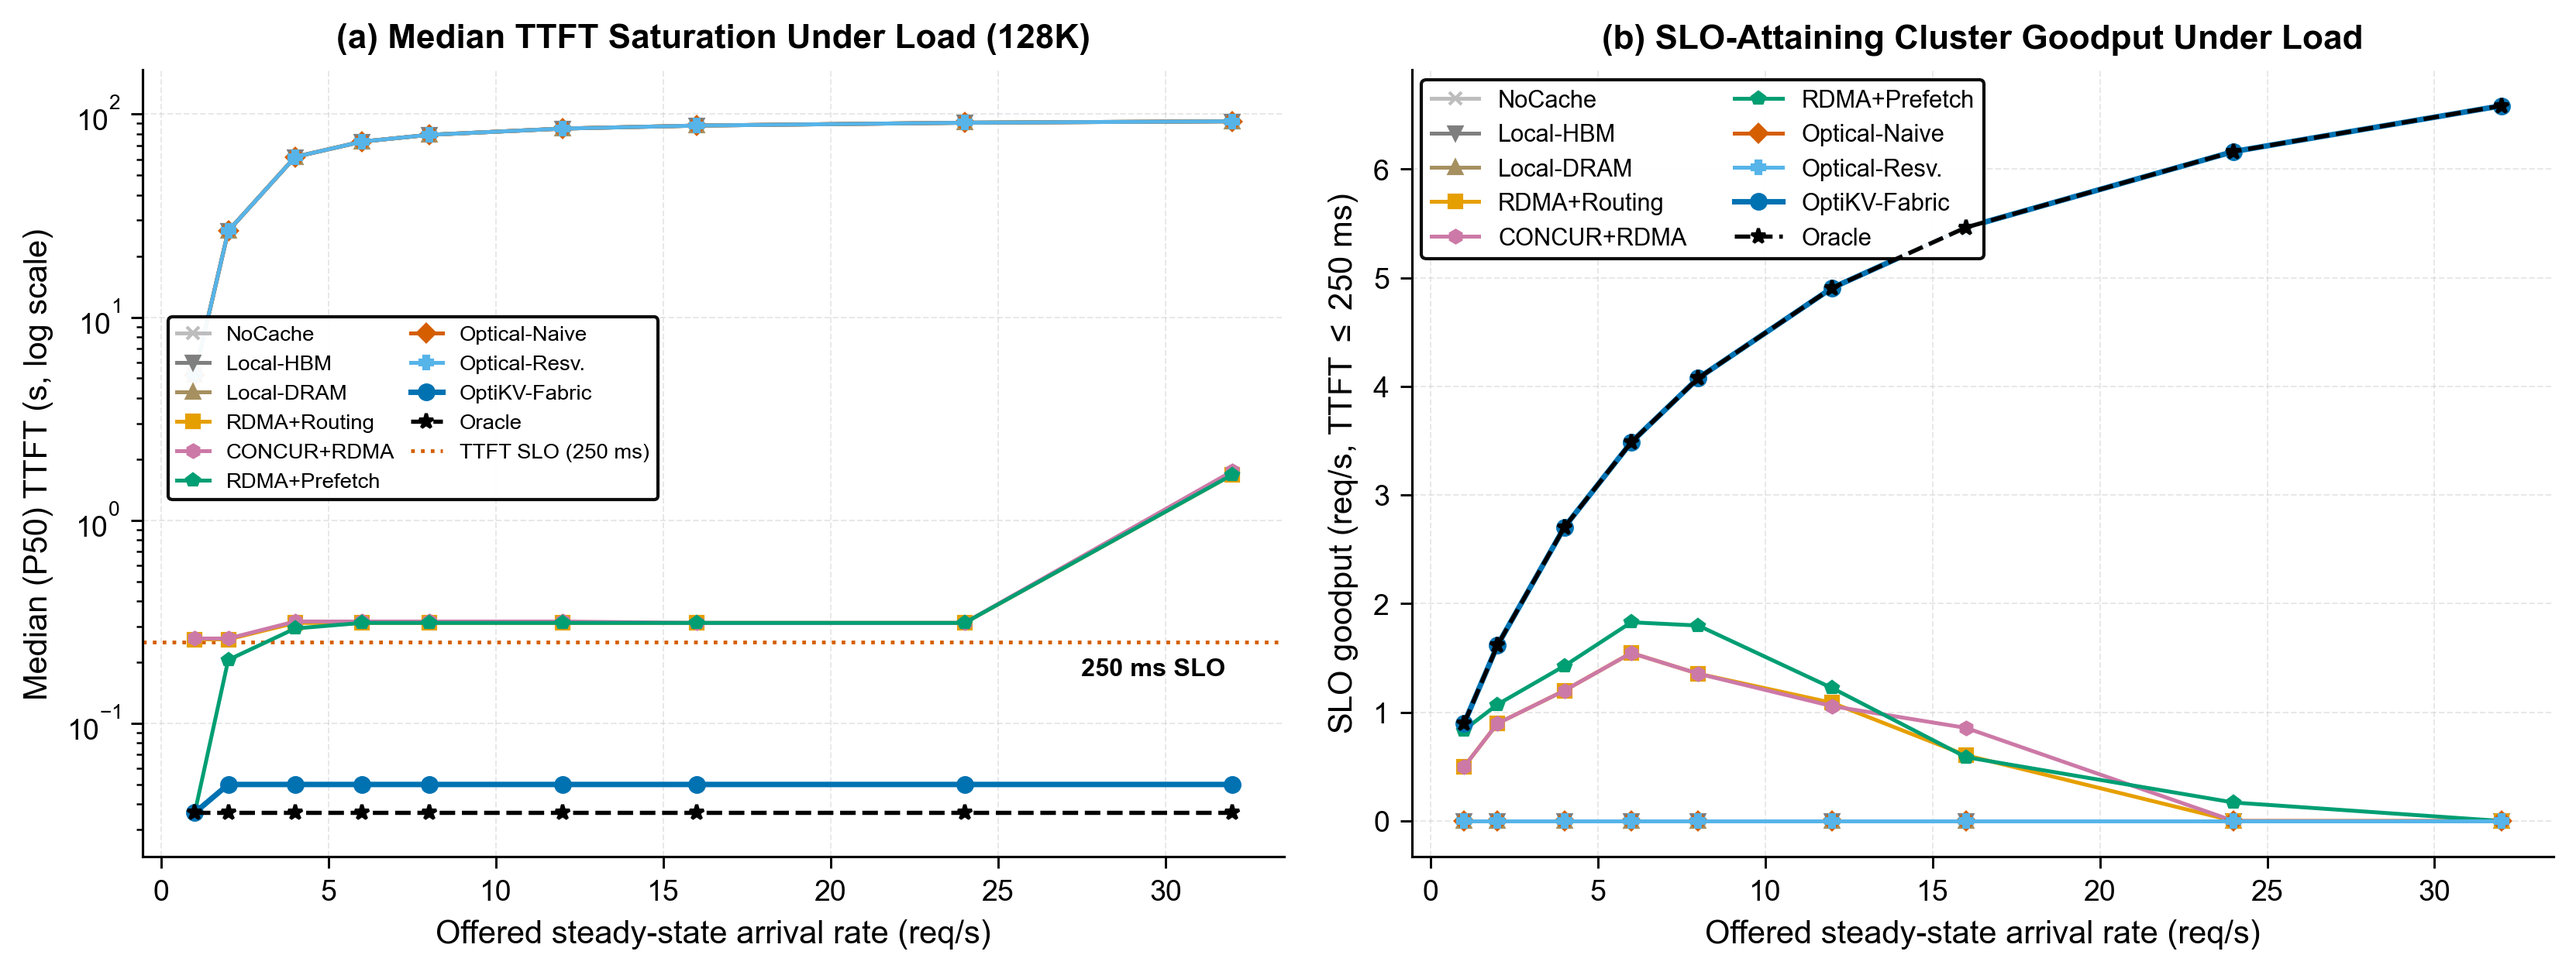
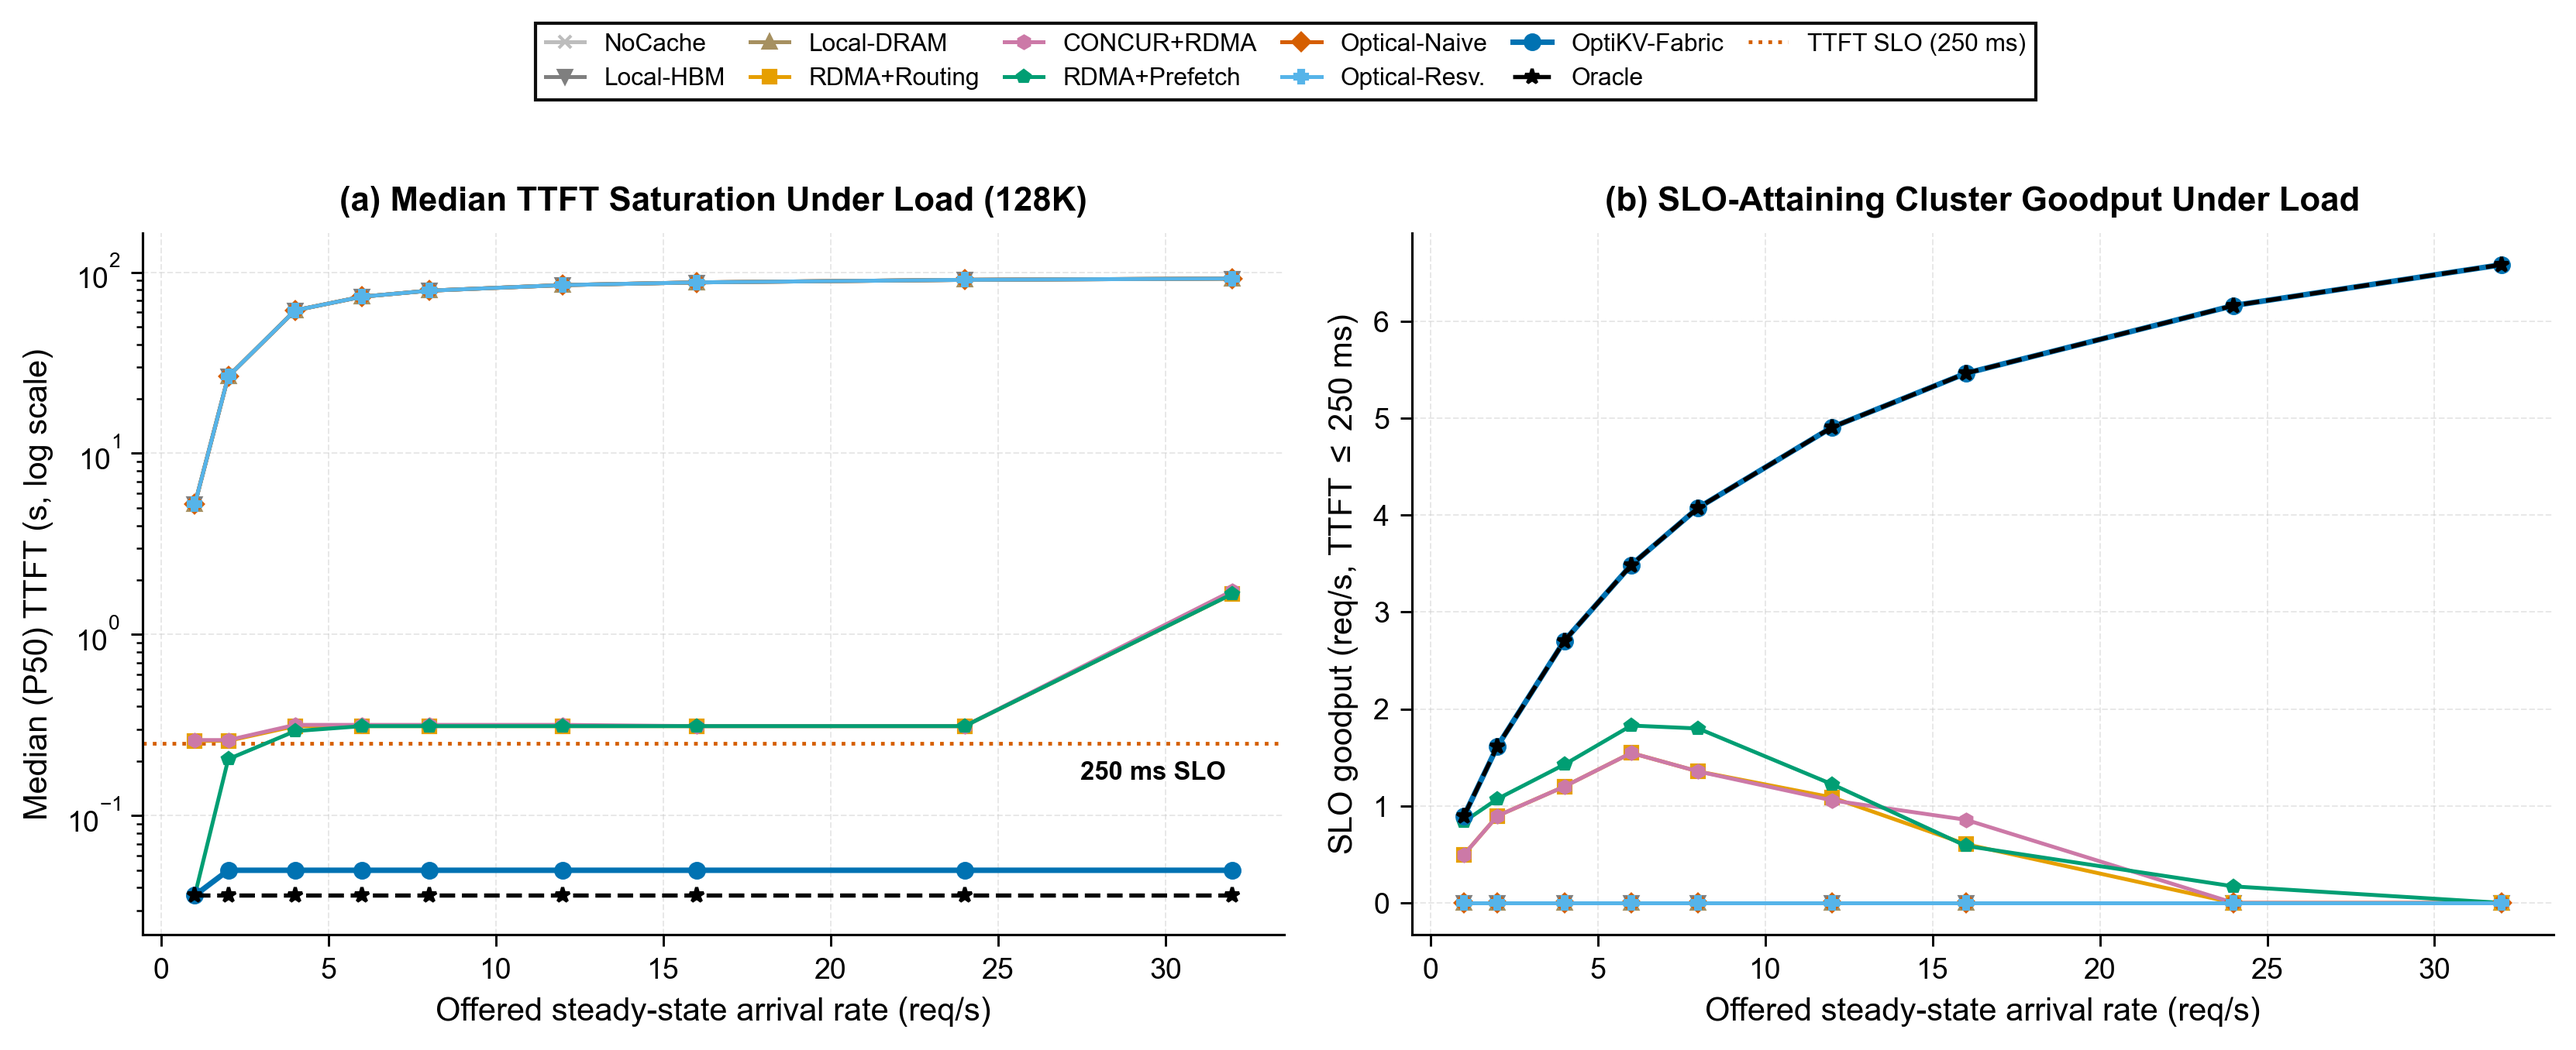
v2.4.2: Move legends above axes on Figs. 4 and 8 and tighten Fig. 2(b) legend for zero bar/curve overlap

diff --git a/scripts/make_publication_figures.py b/scripts/make_publication_figures.py
@@ -461,11 +461,11 @@ def make_fig2_workload_and_capacity() -> None:
     # --- Panel (b) ---
     ax = axes[0, 1]
     mc_files = [
-        ("Mooncake (n=23,608)", ROOT / "datasets/mooncake-traces/mooncake/train-00000-of-00001.parquet", "input_length", C_OPTIKV, "-"),
-        ("Conversation (n=12,031)", ROOT / "datasets/mooncake-traces/conversation/train-00000-of-00001.parquet", "input_length", C_RDMA, "--"),
-        ("ToolAgent (n=23,608)", ROOT / "datasets/mooncake-traces/toolagent/train-00000-of-00001.parquet", "input_length", C_NAIVE, "-."),
-        ("LMCache Tokenized (n=24,880)", ROOT / "datasets/lmcache-agentic-traces/tokenized_512.parquet", "input_tokens", C_RDMA_PF, "-"),
-        ("FreeInference Week (n=190,544)", ROOT / "datasets/freeinference-agentic-trace/week_2026_08_30/release/2026-08-30_2026-09-05/processed/requests.parquet", "prompt_tokens", C_CONCUR, "-"),
+        ("Mooncake (23.6K)", ROOT / "datasets/mooncake-traces/mooncake/train-00000-of-00001.parquet", "input_length", C_OPTIKV, "-"),
+        ("Conversation (12.0K)", ROOT / "datasets/mooncake-traces/conversation/train-00000-of-00001.parquet", "input_length", C_RDMA, "--"),
+        ("ToolAgent (23.6K)", ROOT / "datasets/mooncake-traces/toolagent/train-00000-of-00001.parquet", "input_length", C_NAIVE, "-."),
+        ("LMCache (24.9K)", ROOT / "datasets/lmcache-agentic-traces/tokenized_512.parquet", "input_tokens", C_RDMA_PF, "-"),
+        ("FreeInference (190.5K)", ROOT / "datasets/freeinference-agentic-trace/week_2026_08_30/release/2026-08-30_2026-09-05/processed/requests.parquet", "prompt_tokens", C_CONCUR, "-"),
     ]
     for label, path, colname, col, ls in mc_files:
         if not path.is_file():
@@ -477,10 +477,11 @@ def make_fig2_workload_and_capacity() -> None:
         qs = np.linspace(0, 1, 600)
         ax.plot(np.quantile(arr, qs), qs, label=label, color=col, linestyle=ls, linewidth=1.35)
     ax.set_xscale("log")
+    ax.set_xlim(1.2e2, 2.5e6)
     ax.set_xlabel("Prompt length (tokens, log scale)")
     ax.set_ylabel("Empirical CDF")
     ax.set_title("(b) Production & Agentic Prompt Lengths", loc="center")
-    ax.legend(loc="upper left", fontsize=7.6)
+    ax.legend(loc="upper left", fontsize=7.0, handlelength=1.6)
 
     # --- Panel (c) ---
     ax = axes[1, 0]
@@ -730,7 +731,7 @@ def make_fig4_main_comparison() -> None:
         "no_cache", "local_hbm", "local_dram", "rdma_routing", "concur_rdma",
         "rdma_prefetch", "optical_naive", "optical_reservation", "optikv"
     ]
-    fig, axes = plt.subplots(2, 2, figsize=(11.0, 6.85))
+    fig, axes = plt.subplots(2, 2, figsize=(11.0, 7.05))
     for ax, (fname, title) in zip(axes.flat, panels):
         df = pd.read_csv(SIM / fname).set_index("policy")
         pols = [p for p in show if p in df.index]
@@ -740,27 +741,36 @@ def make_fig4_main_comparison() -> None:
         p99 = [float(df.loc[p, "p99_ttft_s"]) * 1e3 for p in pols]
         oracle_p50 = float(df.loc["oracle_infinite_hbm", "p50_ttft_s"]) * 1e3
         bcols = [POLICY_BAR_COLOR[p] for p in pols]
-        b1 = ax.bar(x - w / 2, p50, width=w, color=bcols, edgecolor=C_BLACK, lw=0.55, label="P50 TTFT")
-        ax.bar(x + w / 2, p99, width=w, color=bcols, alpha=0.40, edgecolor=C_BLACK, lw=0.55, hatch="//", label="P99 TTFT")
-        ax.axhline(oracle_p50, color=C_BLACK, ls="--", lw=1.05, zorder=5,
-                   label=f"Oracle P50 ({oracle_p50:.1f} ms)" if oracle_p50 < 100 else f"Oracle P50 ({oracle_p50:.0f} ms)")
+        b1 = ax.bar(x - w / 2, p50, width=w, color=bcols, edgecolor=C_BLACK, lw=0.55)
+        ax.bar(x + w / 2, p99, width=w, color=bcols, alpha=0.40, edgecolor=C_BLACK, lw=0.55, hatch="//")
+        ax.axhline(oracle_p50, color=C_BLACK, ls="--", lw=1.05, zorder=5)
         ax.set_yscale("log")
         lbls = [POLICY_LABEL[p] + ("\n(Ours)" if p == "optikv" else "") for p in pols]
         ax.set_xticks(x, lbls, rotation=24, ha="right", fontsize=8.3)
         ax.set_ylabel("TTFT (ms, log scale)")
-        ax.set_title(title, loc="center", fontsize=10.6)
-        ymax = max(p99) * 3.5
-        ymin = max(1.0, min(min(p50), oracle_p50) * 0.50)
+        ax.set_title(title, loc="center", fontsize=10.5)
+        ymax = max(p99) * 3.8
+        ymin = max(1.0, min(min(p50), oracle_p50) * 0.48)
         ax.set_ylim(ymin, ymax)
         for rect, val, pol in zip(b1, p50, pols):
             txt = f"{val/1000:.1f}s" if val >= 1000 else f"{val:.0f}"
             ax.text(
-                rect.get_x() + rect.get_width() / 2, val * 1.16, txt,
-                ha="center", va="bottom", fontsize=7.6, color=C_BLACK,
+                rect.get_x() + rect.get_width() / 2, val * 1.15, txt,
+                ha="center", va="bottom", fontsize=7.5, color=C_BLACK,
                 fontweight="bold" if pol == "optikv" else "normal",
             )
-        ax.legend(loc="upper right", fontsize=7.5)
-    fig.tight_layout()
+        orc_str = f"Oracle P50: {oracle_p50:.1f} ms" if oracle_p50 < 100 else f"Oracle P50: {oracle_p50:.0f} ms"
+        ax.text(0.985, 0.96, orc_str, transform=ax.transAxes, ha="right", va="top",
+                fontsize=7.8, fontweight="bold", color=C_BLACK,
+                bbox=dict(boxstyle="round,pad=0.22", facecolor="white", edgecolor=C_BLACK, lw=0.65))
+    shared_handles = [
+        mpatches.Patch(facecolor=C_NOCACHE, edgecolor=C_BLACK, lw=0.55, label="P50 TTFT (solid bar)"),
+        mpatches.Patch(facecolor=C_NOCACHE, alpha=0.40, edgecolor=C_BLACK, lw=0.55, hatch="//", label="P99 TTFT (hatched bar)"),
+        plt.Line2D([0], [0], color=C_BLACK, ls="--", lw=1.10, label="Oracle P50 Floor (dashed line)"),
+    ]
+    fig.legend(handles=shared_handles, loc="upper center", ncol=3, bbox_to_anchor=(0.5, 0.995),
+               fontsize=8.5, frameon=True, edgecolor=C_BLACK, fancybox=False, handlelength=2.0, columnspacing=1.8)
+    fig.tight_layout(rect=[0.0, 0.0, 1.0, 0.945])
     save_fig(fig, "fig4_main_comparison")
 
 
@@ -1033,7 +1043,7 @@ def make_fig7_ablation() -> None:
 
 def make_fig8_load() -> None:
     df = pd.read_csv(SIM / "exp_load_sweep.csv")
-    fig, axes = plt.subplots(1, 2, figsize=(11.2, 4.30))
+    fig, axes = plt.subplots(1, 2, figsize=(11.2, 4.55))
     pols = [
         "no_cache", "local_hbm", "local_dram", "rdma_routing", "concur_rdma",
         "rdma_prefetch", "optical_naive", "optical_reservation", "optikv", "oracle_infinite_hbm"
@@ -1051,7 +1061,7 @@ def make_fig8_load() -> None:
         ax0.plot(sub["target_rps"], sub["p50_ttft_s"], marker=POLICY_MARKER[pol], ms=ms,
                  color=POLICY_COLOR[pol], lw=lw, ls=ls, zorder=z, label=POLICY_LABEL[pol])
         ax1.plot(sub["target_rps"], sub["goodput_rps"], marker=POLICY_MARKER[pol], ms=ms,
-                 color=POLICY_COLOR[pol], lw=lw, ls=ls, zorder=z, label=POLICY_LABEL[pol])
+                 color=POLICY_COLOR[pol], lw=lw, ls=ls, zorder=z)
 
     slo_s = float(df["slo_ttft_s"].iloc[0]) if "slo_ttft_s" in df.columns and len(df) else 0.25
     slo_lbl = f"{int(round(slo_s*1e3))} ms" if slo_s < 1.0 else f"{slo_s:.1f} s"
@@ -1060,16 +1070,17 @@ def make_fig8_load() -> None:
     ax0.set_ylim(0.022, 165.0)
     ax0.set_xlabel("Offered steady-state arrival rate (req/s)")
     ax0.set_ylabel("Median (P50) TTFT (s, log scale)")
-    ax0.set_title("(a) Median TTFT Saturation Under Load (128K)", loc="center", fontsize=10.6)
-    ax0.legend(loc="center left", bbox_to_anchor=(0.015, 0.57), fontsize=6.6, ncol=2, handlelength=1.5, columnspacing=0.75)
-    ax0.text(31.8, 0.21, "250 ms SLO", ha="right", va="top", fontsize=7.8, fontweight="bold", color=C_BLACK)
+    ax0.set_title("(a) Median TTFT Saturation Under Load (128K)", loc="center", fontsize=10.5)
+    ax0.text(31.8, 0.20, "250 ms SLO", ha="right", va="top", fontsize=7.9, fontweight="bold", color=C_BLACK)
 
     ax1.set_xlabel("Offered steady-state arrival rate (req/s)")
     ax1.set_ylabel(f"SLO goodput (req/s, TTFT $\\leq$ {slo_lbl})")
-    ax1.set_title("(b) SLO-Attaining Cluster Goodput Under Load", loc="center", fontsize=10.6)
-    ax1.legend(loc="upper left", fontsize=7.4, ncol=2)
+    ax1.set_title("(b) SLO-Attaining Cluster Goodput Under Load", loc="center", fontsize=10.5)
 
-    fig.tight_layout()
+    handles, labels = ax0.get_legend_handles_labels()
+    fig.legend(handles, labels, loc="upper center", ncol=6, bbox_to_anchor=(0.5, 0.995),
+               fontsize=7.6, frameon=True, edgecolor=C_BLACK, fancybox=False, handlelength=1.6, columnspacing=1.0)
+    fig.tight_layout(rect=[0.0, 0.0, 1.0, 0.865])
     save_fig(fig, "fig8_p99_load")
 
 
